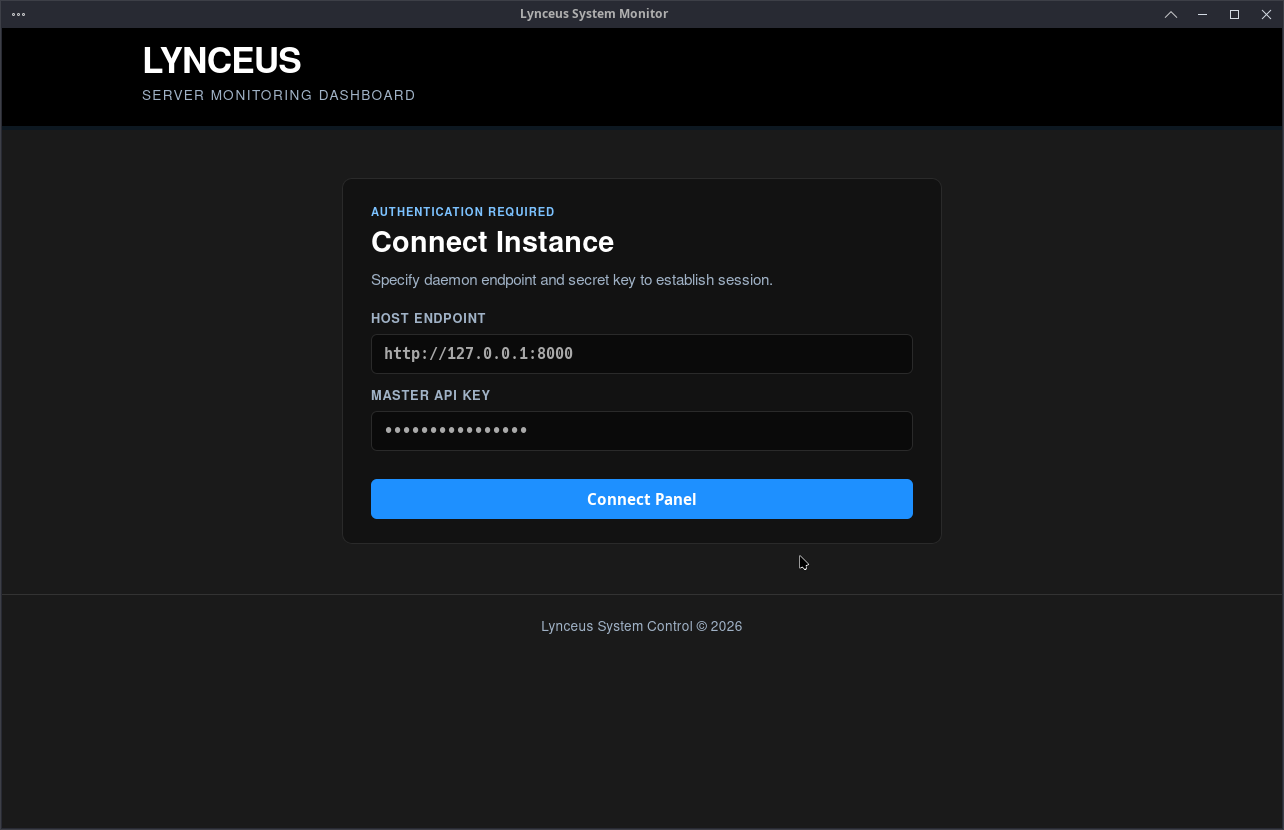
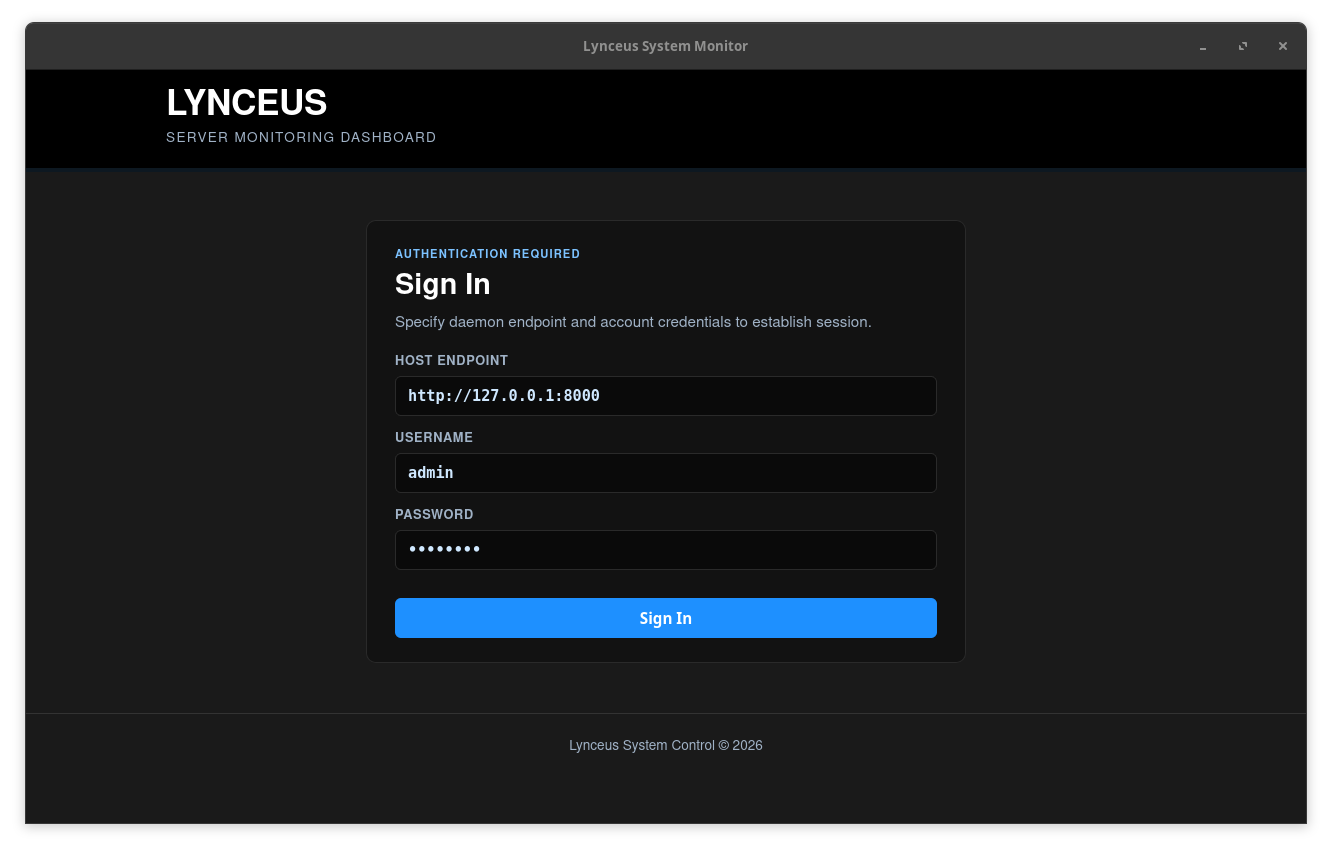
Rewrote readme with help from claude

diff --git a/README.md b/README.md
@@ -1,83 +1,203 @@
-# Lynceus
+<h1 align="center">Lynceus</h1>
 
-[![License](https://img.shields.io/badge/license-MIT-blue.svg)](LICENSE) [![Version](https://img.shields.io/badge/version-0.0.0-green.svg)]()[![Build Status](https://img.shields.io/badge/build-testing-cyan.svg)]()
+<p align="center">Linux server monitoring with a C agent, a FastAPI backend and a React dashboard.</p>
 
-Lynceus is currently under active development.
-
-The core architecture is being built and tested. The project is not yet intended to replace established production monitoring solutions, but early testers, feedback, and contributors are welcome.
-
-Lynceus is a hybrid system monitoring platform designed to bridge low-level C telemetry collection with modern, real-time web visualization. 
-
-The architecture consists of a lightweight C daemon running directly on monitored Linux hosts, an asynchronous Python backend handling persistent storage and stream orchestration, and a React frontend for dynamic status visualization.
-
-## Architecture & Data Flow
-
-1. **Agent (C11):** Interrogates Linux `/proc` interfaces (`/proc/stat`, `/proc/meminfo`, `/proc/net/dev`) to sample performance metrics with minimal system overhead, streaming payloads over WebSockets.
-2. **Backend (Python / FastAPI):** Handles concurrent WebSocket connections from distributed agents, persists timeseries logs to PostgreSQL, and broadcasts real-time telemetry to connected dashboard clients.
-3. **Frontend (React / TypeScript):** Renders live, responsive metric charts via Recharts, featuring connection status tracking and automated threshold warnings.
-4. **AI Implementation** Whilst not directly shown anywhere in the app or the daemon. Usage of Large language models (Such as Claude Code, Google Gemini ...) has been used for Fixing code, writing some parts of the app and fixing some issues with server to app conections.
-
-## Interface Preview
-
-### Authentication & Host Connection
 <p align="center">
-  <img src="./assets/lynclogin.png" alt="Lynceus Login Screen" />
+<a href="LICENSE"><img src="https://img.shields.io/badge/license-MIT-blue.svg" alt="License" /></a>
+<img src="https://img.shields.io/badge/version-0.0.0-green.svg" alt="Version" />
+<img src="https://img.shields.io/badge/build-testing-cyan.svg" alt="Build Status" />
 </p>
 
-### Cluster Telemetry View
 <p align="center">
-  <img src="./assets/lyncmainmenu.png" alt="Lynceus Dashboard Overview" />
+<img src="./assets/lyncmainmenu.png" alt="Lynceus dashboard" />
 </p>
 
-### Server Monitoring View
-<p aling="center">
-  <img src="./assets/lyncserver.png" alt="Lynceus Server Monitoring Dashboard Overview">
+## Overview
+
+Lynceus collects CPU, memory, disk and network metrics from Linux hosts and shows them live in a web dashboard or a desktop app. A small C daemon runs on each monitored host and streams samples to the backend, which stores them, raises alerts and forwards live data to connected dashboards.
+
+The dashboard only reads. Nothing on a monitored server can be changed from it, so any action that needs to be taken means logging in to the machine. This keeps the exposed surface small and is a deliberate design choice.
+
+The project is under active development and is not yet a replacement for established production monitoring tools. Testers, feedback and contributors are welcome.
+
+## Contents
+
+* [Features](#features)
+* [Architecture](#architecture)
+* [Screenshots](#screenshots)
+* [Requirements](#requirements)
+* [Installation](#installation)
+* [Configuration](#configuration)
+* [Security](#security)
+* [Project Status](#project-status)
+* [AI Usage](#ai-usage)
+* [License](#license)
+
+## Features
+
+* Live CPU, memory, disk and network throughput for every server
+* History from 15 minutes up to 30 days
+* Alerts for CPU, memory and disk, with hysteresis, acknowledgement and optional acknowledgement expiry
+* Offline detection with its own alert and an uptime percentage for each server
+* Global alert thresholds, with overrides for each server
+* Discord and Slack webhook notifications
+* Automatic rollup of old samples into five minute averages and peaks
+* CSV export of server history and alert history
+* Admin and viewer roles
+* Desktop app built with Tauri
+
+## Architecture
+
+Agent. A C11 daemon that reads `/proc/stat`, `/proc/meminfo`, `/proc/net/dev` and the root filesystem, then sends a sample over a WebSocket at a fixed interval (two seconds by default). It reconnects automatically and can run in the foreground, as a daemon, or under systemd.
+
+Backend. A FastAPI application that accepts agent connections, writes samples to the database, evaluates alerts, detects agents that stopped reporting, and broadcasts live data to dashboard clients over WebSockets. It uses SQLite by default and can use PostgreSQL.
+
+Frontend. A React and TypeScript application built with Vite and Recharts. It runs in a browser or inside a Tauri window.
+
+## Screenshots
+
+<p align="center">
+<img src="./assets/lynclogin.png" alt="Sign in" />
 </p>
 
-## Tech Stack
+<p align="center">
+<img src="./assets/lyncserver.png" alt="Server detail" />
+</p>
 
-* **Agent Layer:** C11, POSIX Threads, Native Sockets, libwebsockets
-* **Backend Layer:** Python 3.11, FastAPI, AsyncIO, SQLAlchemy, PostgreSQL
-* **Frontend Layer:** React 18, TypeScript, Vite, Recharts, Tailwind CSS
-* **Infrastructure:** Docker, Docker Compose
+<p align="center">
+<img src="./assets/lyncservercharts.png" alt="Server charts" />
+</p>
 
-## Core Features
+<p align="center">
+<img src="./assets/lyncservernetwork.png" alt="Network throughput" />
+</p>
 
-* **Sub-Second Telemetry:** Low-latency streaming of CPU utilization, RAM distribution, and network interface throughput.
-* **Non-Blocking Architecture:** Fully asynchronous Python backend capable of multiplexing multiple agent ingestion feeds.
-* **Modular Visualizations:** React components designed for isolated metric monitoring and multi-node dashboard layouts.
+<p align="center">
+<img src="./assets/lyncalerts.png" alt="Alert history" />
+</p>
 
-## Getting Started
+## Requirements
 
-## Dependencies
+Agent
 
-### Agent (C)
-* C11-compatible compiler (gcc or clang)
-* CMake ≥ 3.10
+* gcc or clang with C11 support
+* CMake 3.10 or newer
 * pkg-config
-* libwebsockets (dev headers — `libwebsockets-dev` on Debian/Ubuntu)
+* libwebsockets development headers (`libwebsockets-dev` on Debian and Ubuntu)
 
-### Backend (Python 3.11+)
-* fastapi
-* uvicorn[standard]
-* sqlalchemy
-* psycopg2-binary *(only if running against PostgreSQL instead of the default SQLite)*
+Backend
 
-Install with:
+* Python 3.11 or newer
+* fastapi, uvicorn[standard], sqlalchemy, pyjwt, argon2-cffi
+* psycopg2-binary, only when using PostgreSQL
 
+Frontend
+
+* Node.js and npm
+* For the desktop app, the Rust toolchain ([rustup](https://rustup.rs)) and the Tauri system libraries: `libwebkit2gtk-4.1-dev`, `libgtk-3-dev`, `librsvg2-dev`, `libayatana-appindicator3-dev`, `libsoup-3.0-dev` and `patchelf` on Debian, Ubuntu and PikaOS
+
+## Installation
+
+### Server
+
+```bash
 cd server
-python3 -m venv .venv && source .venv/bin/activate
+python3 -m venv .venv
+source .venv/bin/activate
 pip install -r requirements.txt
 
+export LYNCEUS_JWT_SECRET=$(openssl rand -hex 32)
+export LYNCEUS_ADMIN_USERNAME=admin
+export LYNCEUS_ADMIN_PASSWORD=changeme
+uvicorn app.main:app --port 8000
+```
 
-### Frontend (Web / Tauri)
-* Node.js ≥ 18 and npm
-* Rust toolchain (via [rustup](https://rustup.rs))
-* Tauri system dependencies: `libwebkit2gtk-4.1-dev`, `libgtk-3-dev`, `librsvg2-dev`, `libayatana-appindicator3-dev`, `libsoup-3.0-dev`, `patchelf` (Debian/Ubuntu/PikaOS)
+Use the same `LYNCEUS_JWT_SECRET` on every start. A new secret invalidates all signed in sessions.
 
-Install with:
+### Web dashboard
 
+```bash
 cd web
 npm install
-npm run build # web build only
-npx tauri build # native app bundle
+npm run dev
+```
+
+Open `http://localhost:5173`, enter the server address, for example `http://127.0.0.1:8000`, and sign in with the admin account.
+
+### Desktop app
+
+```bash
+cd web
+npm install
+npm run build
+npx tauri dev
+```
+
+The build step must run at least once because Tauri checks that `web/dist` exists when it compiles. Use `npx tauri build` to produce a release bundle.
+
+### Agent
+
+```bash
+cd agent
+cmake -S . -B build
+cmake --build build
+./build/lynceus-agent --host 127.0.0.1 --port 8000 --id myserver
+```
+
+A server appears in the dashboard the first time its agent connects, named after the id. Add `--key` when the server has `LYNCEUS_API_KEY` set, and `--tls` to connect over `wss`.
+
+Options can also be read from a file with `--config`. An example is in `agent/lynceus-agent.conf.example`. A systemd unit is provided in `agent/lynceus-agent.service`, and `agent/debian` contains Debian packaging.
+
+## Configuration
+
+The server is configured through environment variables.
+
+| Variable | Default | Description |
+|---|---|---|
+| `LYNCEUS_JWT_SECRET` | none | Secret used to sign sessions. Required. |
+| `LYNCEUS_ADMIN_USERNAME` | none | Initial admin account name, created at startup. |
+| `LYNCEUS_ADMIN_PASSWORD` | none | Initial admin account password. |
+| `LYNCEUS_API_KEY` | empty | Key agents must send. When empty, agents are not authenticated. |
+| `LYNCEUS_DB_URL` | `sqlite:///./lynceus.db` | SQLAlchemy database URL. |
+| `LYNCEUS_CORS_ORIGINS` | `*` | Comma separated list of allowed origins. |
+| `LYNCEUS_JWT_ACCESS_MINUTES` | `15` | Access token lifetime. |
+| `LYNCEUS_JWT_REFRESH_DAYS` | `7` | Refresh token lifetime. |
+| `LYNCEUS_LOGIN_MAX_ATTEMPTS` | `5` | Failed logins before lockout. |
+| `LYNCEUS_LOGIN_LOCKOUT_MINUTES` | `15` | Lockout duration. |
+| `LYNCEUS_CPU_THRESHOLD` | `90` | CPU alert threshold in percent. |
+| `LYNCEUS_RAM_THRESHOLD` | `90` | Memory alert threshold in percent. |
+| `LYNCEUS_DISK_THRESHOLD` | `90` | Disk alert threshold in percent. |
+| `LYNCEUS_ALERT_HYSTERESIS_PERCENT` | `5` | How far below the threshold a value must fall before an alert resolves. |
+| `LYNCEUS_OFFLINE_THRESHOLD` | `10` | Seconds without data before a server is considered offline. |
+| `LYNCEUS_ACK_EXPIRY_HOURS` | `0` | Hours until an acknowledgement expires. 0 means never. |
+| `LYNCEUS_WEBHOOK_URL` | empty | Webhook that receives alert notifications. |
+| `LYNCEUS_WEBHOOK_FORMAT` | `auto` | Webhook payload format. `auto` detects Discord and Slack URLs. |
+| `LYNCEUS_RETENTION_DAYS` | `7` | Days of raw samples to keep before rollup. 0 disables retention. |
+| `LYNCEUS_ROLLUP_RETENTION_DAYS` | `365` | Days of rollups to keep. 0 keeps them indefinitely. |
+| `LYNCEUS_ROLLUP_BUCKET_SECONDS` | `300` | Rollup bucket size. |
+| `LYNCEUS_RETENTION_INTERVAL_SECONDS` | `3600` | How often the retention job runs. |
+
+Thresholds for a single server can be changed by an admin in the dashboard. They take precedence over the global values for that server.
+
+## Security
+
+Passwords are hashed with Argon2. Sessions use short lived access tokens and a refresh token stored in a cookie that is protected with a CSRF token. Repeated failed logins lock the account for a period. Accounts have either the admin or the viewer role, and only admins can acknowledge alerts, change thresholds or send a test webhook.
+
+For anything beyond local use, set `LYNCEUS_CORS_ORIGINS` to the dashboard origin, set `LYNCEUS_API_KEY`, and run the server behind TLS.
+
+## Project Status
+
+Known gaps:
+
+* The agent reports disk usage for the root filesystem only.
+* The agent does not send a hostname or address, so servers are listed by id with an unknown address.
+* There are no automated tests yet.
+* The database schema is created at startup and there are no migrations, so upgrades that change existing tables need a manual step.
+
+## AI Usage
+
+Large language models, including Claude and Gemini, were used to fix code, write parts of the application and debug connection issues between the server and the app. None of this is exposed in the application or the agent.
+
+## License
+
+Released under the MIT License. See [LICENSE](LICENSE).
